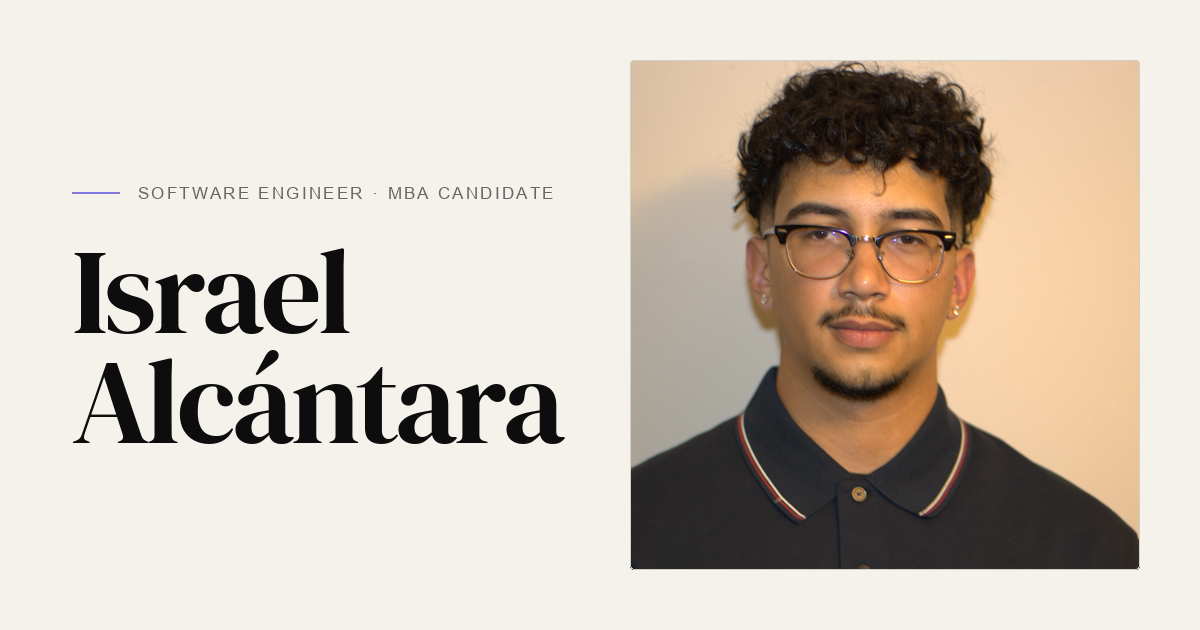
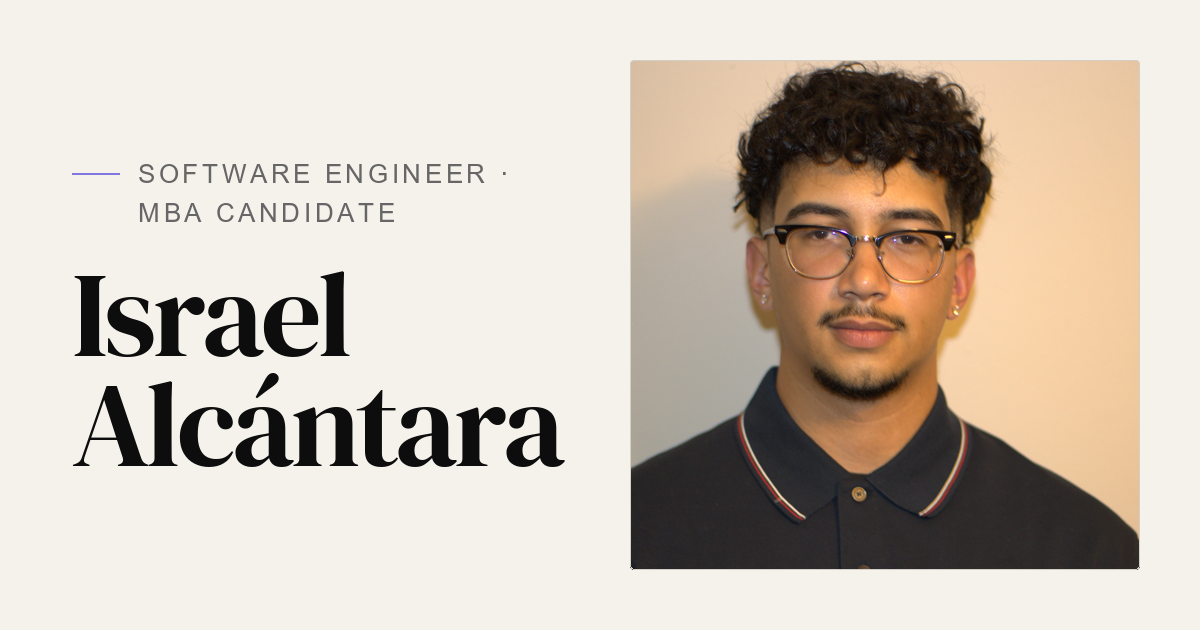
Set the share image's eyebrow at 26px, on two lines
At 17px it showed at about 8px in a LinkedIn card. It now breaks after the
"·" where one line doesn't fit, and the portrait gives way only if the
column is still too narrow (it isn't: it stays 510px). The name stays 120px.

Changed region(s): [[0.0617, 0.3921, 0.4933, 0.754], [0.0617, 0.2413, 0.4625, 0.3619]]

diff --git a/scripts/make-head-images.py b/scripts/make-head-images.py
@@ -44,6 +44,14 @@ OG_TEXT_LEFT = 72
 OG_GUTTER = 64
 EYEBROW = 'Software Engineer · MBA Candidate'
 NAME_LINES = ('Israel', 'Alcántara')
+# Sized for the preview card, not the file: LinkedIn shows the image about 552px wide,
+# so 26px here reads at about 12px there
+EYEBROW_PX = 26
+EYEBROW_LEADING = 1.5
+NAME_PX = 120
+# Where the column is too narrow for the eyebrow or the name, the portrait gives way,
+# this much at a time
+PORTRAIT_STEP = 10
 
 # Monogram, as the nav logo sets it: letter-spacing -0.01em, all ink
 MONOGRAM = 'I.A.'
@@ -78,46 +86,60 @@ def og_image():
     draw = ImageDraw.Draw(im)
     w, h = OG_SIZE
 
-    # Portrait: the Hero's square crop (centered), with its hairline border and 4px corners
+    # Text column: the Hero's eyebrow row (purple rule, uppercase tracked label) over the
+    # name. The eyebrow takes two lines where one doesn't fit, broken after the "·", the
+    # second line under the first's text. The portrait shrinks until both fit.
+    eyebrow_font = ImageFont.truetype(str(sans_path()), EYEBROW_PX)
+    name_font = ImageFont.truetype(str(SERIF), NAME_PX)
+    rule_w, rule_gap = 48, 18
+    eyebrow = EYEBROW.upper()
     side = h - 2 * OG_MARGIN
-    photo_x = w - OG_MARGIN - side
+    while True:
+        photo_x = w - OG_MARGIN - side
+        column = photo_x - OG_GUTTER - OG_TEXT_LEFT
+        room = column - rule_w - rule_gap
+        if tracked_width(eyebrow, eyebrow_font, 0.14) <= room:
+            eyebrow_lines = [eyebrow]
+        else:
+            first, second = eyebrow.split(' · ')
+            eyebrow_lines = [f'{first} ·', second]
+        fits = max(tracked_width(line, eyebrow_font, 0.14) for line in eyebrow_lines) <= room
+        if fits and max(tracked_width(line, name_font, -0.03) for line in NAME_LINES) <= column:
+            break
+        side -= PORTRAIT_STEP
+
+    # Portrait: the Hero's square crop (centered), with its hairline border and 4px
+    # corners, centered vertically
+    photo_y = (h - side) // 2
     with Image.open(PORTRAIT) as original:
         photo = ImageOps.fit(ImageOps.exif_transpose(original).convert('RGB'), (side, side), Image.LANCZOS, centering=(0.5, 0.2))
     mask = Image.new('L', (side * SS, side * SS), 0)
     ImageDraw.Draw(mask).rounded_rectangle((0, 0, side * SS - 1, side * SS - 1), radius=4 * SS, fill=255)
-    im.paste(photo, (photo_x, OG_MARGIN), mask.resize((side, side), Image.LANCZOS))
-    draw.rounded_rectangle((photo_x, OG_MARGIN, photo_x + side - 1, OG_MARGIN + side - 1), radius=4, outline=LINE, width=1)
-
-    # Text column: the Hero's eyebrow row (purple rule, uppercase tracked label) over the name
-    column = photo_x - OG_GUTTER - OG_TEXT_LEFT
-    sans = sans_path()
-    eyebrow = EYEBROW.upper()
-    rule_w, rule_gap = 48, 18
-    eyebrow_font = ImageFont.truetype(str(sans), 20)
-    while rule_w + rule_gap + tracked_width(eyebrow, eyebrow_font, 0.14) > column:
-        eyebrow_font = ImageFont.truetype(str(sans), eyebrow_font.size - 1)
-    name_font = ImageFont.truetype(str(SERIF), 120)
-    while max(tracked_width(line, name_font, -0.03) for line in NAME_LINES) > column:
-        name_font = ImageFont.truetype(str(SERIF), name_font.size - 2)
+    im.paste(photo, (photo_x, photo_y), mask.resize((side, side), Image.LANCZOS))
+    draw.rounded_rectangle((photo_x, photo_y, photo_x + side - 1, photo_y + side - 1), radius=4, outline=LINE, width=1)
 
     eyebrow_cap = eyebrow_font.getbbox('H', anchor='ls')[1] * -1
+    eyebrow_leading = round(EYEBROW_PX * EYEBROW_LEADING)
     name_cap = name_font.getbbox('H', anchor='ls')[1] * -1
-    leading = round(name_font.size * 0.92)
-    gap = round(name_font.size * 0.45)
-    block = eyebrow_cap + gap + name_cap + leading * (len(NAME_LINES) - 1)
+    leading = round(NAME_PX * 0.92)
+    gap = round(NAME_PX * 0.45)
+    block = eyebrow_cap + eyebrow_leading * (len(eyebrow_lines) - 1) + gap + name_cap + leading * (len(NAME_LINES) - 1)
     top = (h - block) // 2
 
     baseline = top + eyebrow_cap
     rule_y = baseline - eyebrow_cap // 2
     draw.rectangle((OG_TEXT_LEFT, rule_y - 1, OG_TEXT_LEFT + rule_w - 1, rule_y), fill=PURPLE)
-    draw_tracked(draw, (OG_TEXT_LEFT + rule_w + rule_gap, baseline), eyebrow, eyebrow_font, 0.14, MUTED)
+    for line in eyebrow_lines:
+        draw_tracked(draw, (OG_TEXT_LEFT + rule_w + rule_gap, baseline), line, eyebrow_font, 0.14, MUTED)
+        baseline += eyebrow_leading
+    baseline -= eyebrow_leading
 
     baseline += gap + name_cap
     for line in NAME_LINES:
         draw_tracked(draw, (OG_TEXT_LEFT, baseline), line, name_font, -0.03, INK)
         baseline += leading
 
-    return im, {'eyebrow px': eyebrow_font.size, 'name px': name_font.size}
+    return im, {'eyebrow px': EYEBROW_PX, 'eyebrow lines': len(eyebrow_lines), 'name px': NAME_PX, 'portrait px': side}
 
 
 def monogram(size, ink_width, radius, transparent_corners):
